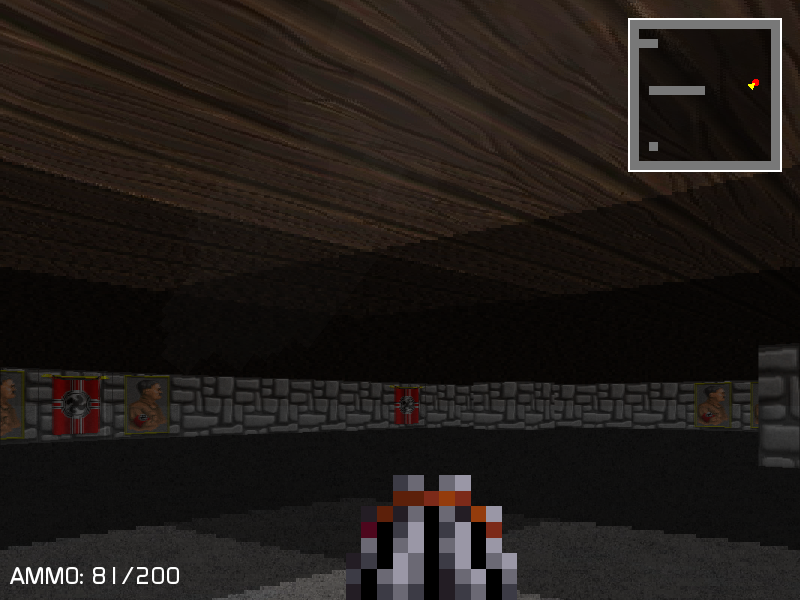
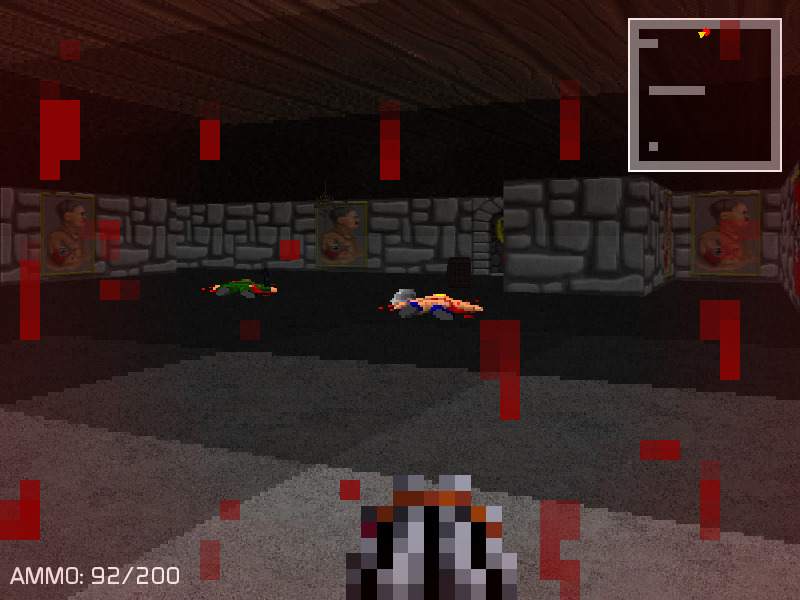
Feat (vfx): implemented the primary vfxs

diff --git a/src/weapon/get_wall_impact.c b/src/weapon/get_wall_impact.c
@@ -7,7 +7,7 @@
 
 #include "frame.h"
 
-bool get_wall_impact(sfVector3f *buff, frame_t *frame, float range)
+float get_wall_impact(sfVector3f *buff, frame_t *frame, float range)
 {
     float verti_dist = frame->z_buffer[WINDOWX / 2];
     float hori_dist = frame->hori_buffer[WINDOWY / 2];
@@ -16,18 +16,24 @@ bool get_wall_impact(sfVector3f *buff, frame_t *frame, float range)
 
     forward = (verti_dist > hori_dist ? hori_dist : forward) - 10;
     if (forward <= 0.0f || forward >= range)
-        return true;
+        return -1;
     buff->x = PLAYER->pos.x + dir.x * forward;
     buff->y = PLAYER->pos.y + dir.y * forward;
     buff->z = tanf(PLAYER->angle.y) * forward / 100;
-    return false;
+    return forward;
 }
 
 void impact_wall(frame_t *frame, float range)
 {
     sfVector3f pos = {0};
+    float rand = 0;
+    float dist = get_wall_impact(&pos, frame, range);
 
-    if (get_wall_impact(&pos, frame, range))
+    if (dist == -1)
         return;
+    rand = dist / 50;
+    pos.x = rand_range(pos.x - rand, pos.x + rand);
+    pos.y = rand_range(pos.y - rand, pos.y + rand);
+    pos.z = rand_range(pos.z - rand / 100, pos.z + rand / 100);
     vfx_dust_impact(frame, pos);
 }

diff --git a/src/vfx/tim_vfx.c b/src/vfx/tim_vfx.c
@@ -14,12 +14,12 @@ static unsigned int vfx_emit_smoke_and_droplets(frame_t *frame,
     unsigned int err = 0;
 
     emit_set = create_emit_settings(40.0, 0.1, 360.0,
-        sfColor_fromRGBA(150, 150, 150, 70));
+        sfColor_fromRGBA(110, 110, 110, 70));
     set_emit_settings(&emit_set, 1.2, 8, 10);
     err += emit_splatter(UI->vfx_infos.vfxs, UI->vfx_infos.smoke,
         &emit_set, abs_pos);
     emit_set = create_emit_settings(35.0, 0.2, 360.0,
-        sfColor_fromRGBA(150, 150, 150, 130));
+        sfColor_fromRGBA(110, 110, 110, 130));
     set_emit_settings(&emit_set, 1.4, 7, 6);
     err += emit_splatter(UI->vfx_infos.vfxs, UI->vfx_infos.smoke,
         &emit_set, abs_pos);
@@ -36,7 +36,7 @@ bool vfx_dust_impact(frame_t *frame, sfVector3f abs_pos)
     emit_settings_t emit_set = {0};
     unsigned int err = vfx_emit_smoke_and_droplets(frame, abs_pos);
 
-    emit_set = create_emit_settings(0, 0.35, 0.0,
+    emit_set = create_emit_settings(0, 0.35, 360,
         sfColor_fromRGBA(255, 255, 240, 255));
     set_emit_settings(&emit_set, 0.18, 1, 0);
     err += emit_grow(UI->vfx_infos.vfxs, UI->vfx_infos.impact,

diff --git a/src/vfx/combat_vfx.c b/src/vfx/combat_vfx.c
@@ -36,11 +36,11 @@ bool vfx_bullet_drop(frame_t *frame, sfVector3f abs_pos)
     unsigned int err = 0;
 
     emit_set = create_emit_settings(35, 0.2, 360.0,
-        sfColor_fromRGBA(250, 250, 250, 7));
-    set_emit_settings(&emit_set, 3.5, 5, -10);
+        sfColor_fromRGBA(250, 250, 250, 4));
+    set_emit_settings(&emit_set, 3.5, 4, -10);
     err += emit_splatter(UI->vfx_infos.vfxs, UI->vfx_infos.smoke,
         &emit_set, abs_pos);
-    emit_set = create_emit_settings(40, 0.05, 1000,
+    emit_set = create_emit_settings(40, 0.03, 1000,
         sfColor_fromRGBA(255, 255, 255, 255));
     set_emit_settings(&emit_set, 0.9, 1, 300);
     err += emit_burst(UI->vfx_infos.vfxs, UI->vfx_infos.bullet,

diff --git a/src/weapon/machine_gun.c b/src/weapon/machine_gun.c
@@ -13,7 +13,7 @@ static bool attempt_machinegun_damage(weapon_t *weapon, frame_t *frame)
 
     weapon->ammo--;
     if (target) {
-        damage_enemy(target, weapon->damage);
+        damage_enemy(frame, target, weapon->damage);
         return true;
     }
     return false;
@@ -85,6 +85,7 @@ static void handle_machinegun_firing(weapon_t *weapon,
         weapon->animation_timer = 0;
         weapon->current_frame = (weapon->current_frame + 1) % 2;
         if (weapon->current_frame == 0) {
+            vfx_bullet_drop(frame, get_front(PLAYER, 21, v3f(0, 0, -0.1)));
             attempt_machinegun_damage(weapon, frame);
             handle_out_of_ammo(weapon);
         }

diff --git a/src/weapon/update_weapon.c b/src/weapon/update_weapon.c
@@ -16,9 +16,16 @@ float normalize_weapon_angle(float angle)
     return angle;
 }
 
-void damage_enemy(enemy_t *enemy, int damage)
+void damage_enemy(frame_t *frame, enemy_t *enemy, int damage)
 {
+    sfVector3f pos = enemy->pos;
+    float rand = 7;
+
     enemy->life -= damage;
+    pos.x = rand_range(pos.x - rand, pos.x + rand);
+    pos.y = rand_range(pos.y - rand, pos.y + rand);
+    pos.z = rand_range(pos.z - rand, pos.z + rand) / 100;
+    vfx_blood(frame, pos);
 }
 
 static void update_weapon_visual(weapon_t *weapon)

diff --git a/src/raycast/ray_cast_floor_and_ceiling.c b/src/raycast/ray_cast_floor_and_ceiling.c
@@ -116,8 +116,7 @@ static void draw_strip(frame_t *frame, raycasting_data_t *data,
 
     if (ray.distance > MAX_RAY_LENGTH)
         return;
-    if (is_floor)
-        frame->hori_buffer[strip.y] = ray.distance;
+    frame->hori_buffer[strip.y] = ray.distance;
     world_pos = calculate_world_position(data, ray);
     tex_coords = calculate_texture_coordinates(data, world_pos);
     draw_sprite_strip(frame, data, tex_coords, strip);

diff --git a/includes/weapon.h b/includes/weapon.h
@@ -50,7 +50,7 @@ void update_machinegun_behavior(weapon_t *weapon,
     frame_t *frame, float delta_time);
 void draw_weapon(frame_t *frame);
 enemy_t *find_enemy_in_range(frame_t *frame);
-void damage_enemy(enemy_t *enemy, int damage);
+void damage_enemy(frame_t *frame, enemy_t *enemy, int damage);
 float normalize_weapon_angle(float angle);
 void switch_weapon(frame_t *frame, int weapon_index);
 void reload_weapon(frame_t *frame);

diff --git a/includes/frame.h b/includes/frame.h
@@ -653,7 +653,7 @@ void render_wall_column(sfRenderWindow *window, int column,
     float wall_height, sfColor color);
 void cast_all_rays(frame_t *frame);
 void render_wall_column_textured(frame_t *frame, wall_render_params_t prms);
-bool get_wall_impact(sfVector3f *buff, frame_t *frame, float range);
+float get_wall_impact(sfVector3f *buff, frame_t *frame, float range);
 
 //FLASHLIGHT
 bool init_flashlight(frame_t *frame);

diff --git a/src/scenes/game.c b/src/scenes/game.c
@@ -155,7 +155,7 @@ int game(frame_t *frame)
     if (!(nb % 110)) {
         vfx_dust_impact(frame, v3f(200, 150, -0.1));
         vfx_blood(frame, v3f(250, 150, -0.1));
-        vfx_bullet_drop(frame, get_front(PLAYER, 21, v3f(0, 0, -0.1)));
+        //vfx_bullet_drop(frame, get_front(PLAYER, 21, v3f(0, 0, -0.1)));
     }
     draw_hud(frame);
     draw_inventory(frame);

diff --git a/src/weapon/knife_behavior.c b/src/weapon/knife_behavior.c
@@ -12,7 +12,7 @@ static bool attempt_knife_damage(weapon_t *weapon, frame_t *frame)
     enemy_t *target = find_enemy_in_range(frame);
 
     if (target) {
-        damage_enemy(target, weapon->damage);
+        damage_enemy(frame, target, weapon->damage);
         return true;
     }
     return false;
